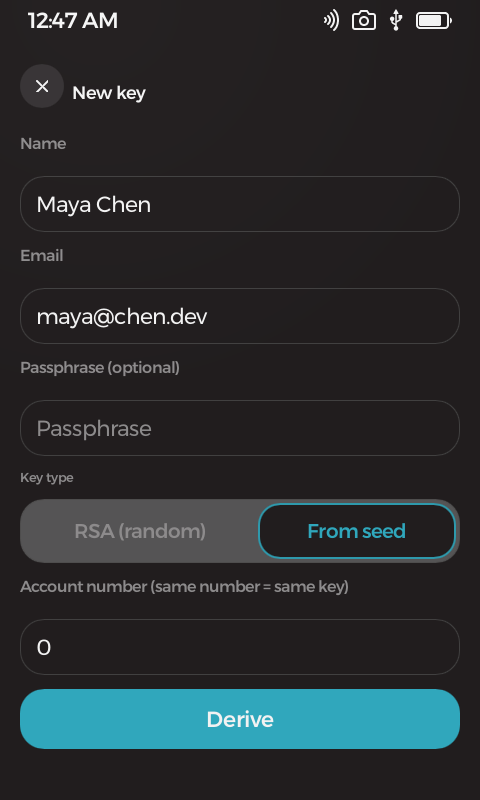
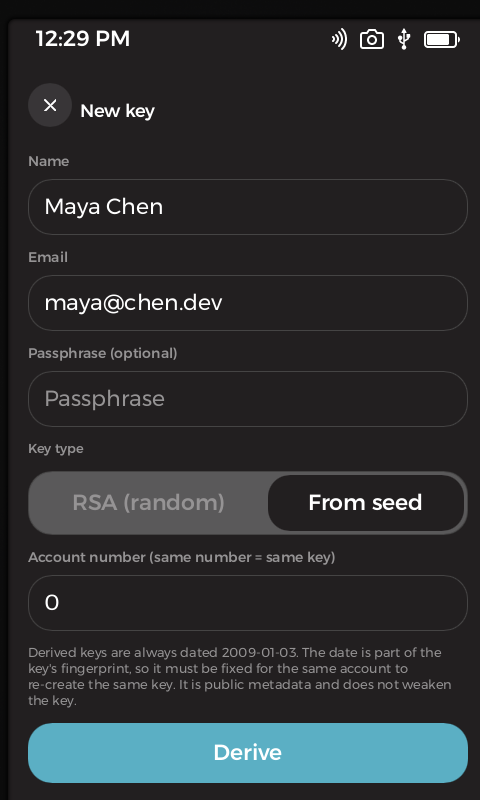
Fresh screenshots under the OpenPGP Keys name
Retaken from the current build via prime-shot.sh after the rename;
keychain.png becomes keys.png. Same staging as before (Maya Chen
seed-derived key #0 — same fingerprint, proving the frozen salt — and
an RSA-2048 Release Signing key).

Claude-Session: https://claude.ai/code/session_01Xyoem2iNWjCQjV5VhQKUY1

Changed region(s): [[0.0, 0.0, 1.0, 1.0], [0.1562, 0.0938, 0.3125, 0.1562], [0.0625, 0.0938, 0.0938, 0.125]]

diff --git a/README.md b/README.md
@@ -5,7 +5,7 @@
 OpenPGP Keys turns your Passport Prime into a personal certificate authority. Create keys, import the ones you already have, sign and encrypt files, and answer signing requests over nothing but QR codes — all on a device with no network stack and storage encrypted by your PIN. Best of all: keys can be **derived from your device's master seed**, so restoring your seed phrase restores your OpenPGP identity too.
 
 <p align="center">
-  <img src="screenshots/keychain.png" alt="Keychain list" width="280">
+  <img src="screenshots/keys.png" alt="Key list" width="280">
   &nbsp;
   <img src="screenshots/key-detail.png" alt="Key detail" width="280">
   &nbsp;
